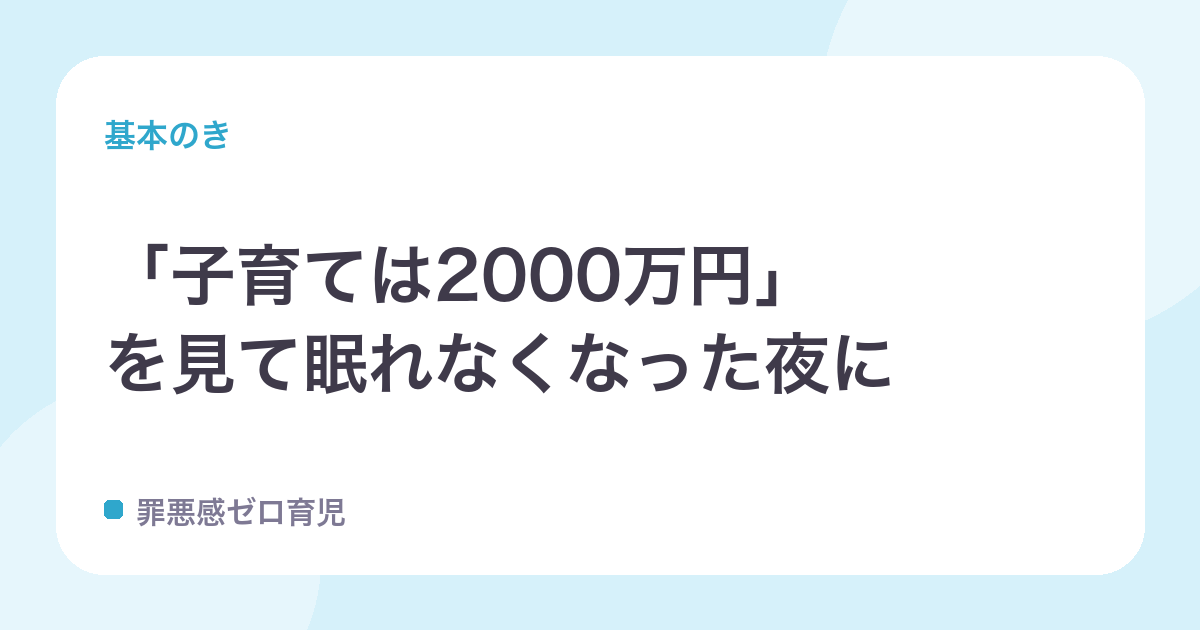
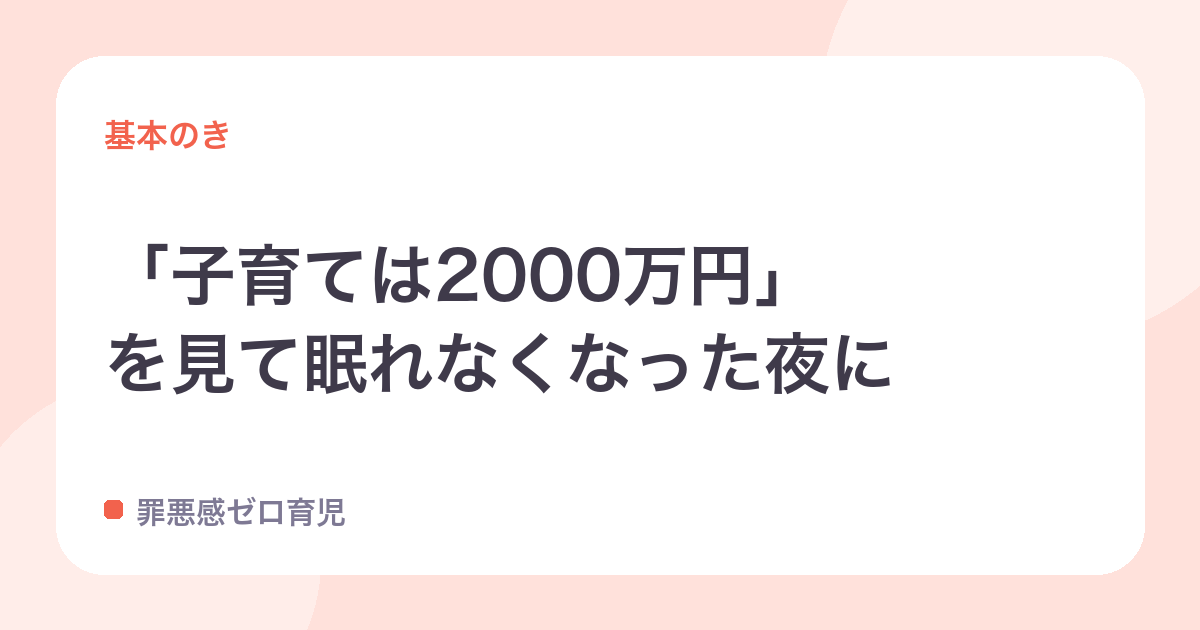
新カテゴリ「子どもとお金」追加：記事3本（1本はkurashiから移設）＋残り7トピックをキュー
- src/lib/site.ts / src/content/config.ts / scripts/gen/util.py / scripts/gen/topic.py に配線（accent: coral, emoji: 💰）
- kosodate-okane-nenreibetsu-mokuyasu を kurashi → okane に再分類、サムネをcoralで再生成
- 新規2本：お小遣いの学年別目安（金融広報中央委員会「知るぽると」）、学資保険は必須ではない（J-FLEC）
- 特定金融商品の断定的推奨はしない方針。残り7本はtopic-bank.ymlにqueuedで登録、自動パイプラインで段階的補充
- CLAUDE.md: 横軸カテゴリ表を12個に更新
- guardrails(banned/ymyl/governance)クリーン、build確認済み(114 pages)

Changed region(s): [[0.0, 0.0, 1.0, 1.0], [0.0925, 0.181, 0.185, 0.2413]]

diff --git a/src/lib/site.ts b/src/lib/site.ts
@@ -14,7 +14,8 @@ export type CategoryKey =
   | 'wanope'
   | 'hatsuiku'
   | 'kurashi'
-  | 'shinmama';
+  | 'shinmama'
+  | 'okane';
 export type ArticleTypeKey = 'trend' | 'basics' | 'service' | 'voice' | 'cheer';
 
 export type AccentKey = 'sun' | 'grape' | 'coral' | 'mint' | 'sky';
@@ -125,6 +126,15 @@ export const CATEGORIES: CategoryMeta[] = [
     accent: 'sun',
     description:
       '養育費、児童扶養手当、面会交流、「かわいそう」という視線。ひとりで抱えなくていい情報と、頼っていい窓口をまとめます。',
+  },
+  {
+    key: 'okane',
+    label: '子どもとお金',
+    short: '子どもとお金',
+    emoji: '💰',
+    accent: 'coral',
+    description:
+      '教育費、お小遣い、学資保険。「うちは大丈夫？」という漠然とした不安に、実際の数字と考え方で向き合います。',
   },
 ];
 

diff --git a/src/content/config.ts b/src/content/config.ts
@@ -25,6 +25,7 @@ const blog = defineCollection({
       'hatsuiku',
       'kurashi',
       'shinmama',
+      'okane',
     ]),
     /** 子どもの成長ステージ（src/lib/site.ts と一致・カテゴリと直交） */
     stage: z.enum(['ninshin', 'age0', 'age1_2', 'age3_pre', 'gakudo']),

diff --git a/scripts/gen/util.py b/scripts/gen/util.py
@@ -14,7 +14,7 @@ THUMBS = ROOT / "public" / "images" / "thumb"
 PROMPTS = SCRIPTS / "prompts"
 
 # src/lib/site.ts と一致させること
-CATEGORIES = ["sns", "gohan", "nenne", "kokoro", "sango", "kakawari", "saino", "wanope", "hatsuiku", "kurashi", "shinmama"]
+CATEGORIES = ["sns", "gohan", "nenne", "kokoro", "sango", "kakawari", "saino", "wanope", "hatsuiku", "kurashi", "shinmama", "okane"]
 STAGES = ["ninshin", "age0", "age1_2", "age3_pre", "gakudo"]
 ARTICLE_TYPES = ["trend", "basics", "service", "voice", "cheer"]
 ROTATION = ["trend", "basics", "service", "voice", "cheer"]
@@ -46,6 +46,7 @@ CATEGORY_ACCENT = {
     "hatsuiku": "mint",
     "kurashi": "sky",
     "shinmama": "sun",
+    "okane": "coral",
 }
 
 

diff --git a/scripts/gen/topic.py b/scripts/gen/topic.py
@@ -52,6 +52,7 @@ _DEFAULT_SOURCES = {
     "kurashi": ["https://www.caa.go.jp/policies/policy/consumer_safety/child/"],
     "sns": ["https://www.cfa.go.jp/"],
     "shinmama": ["https://www.cfa.go.jp/policies/hitori-oya", "https://support-hitorioya.cfa.go.jp/support/"],
+    "okane": ["https://www.j-flec.go.jp/", "https://www.shiruporuto.jp/"],
 }
 
 

diff --git a/src/content/blog/okozukai-itsukara-ikura-mokuyasu.md b/src/content/blog/okozukai-itsukara-ikura-mokuyasu.md
@@ -1,0 +1,45 @@
+---
+title: "お小遣い、いつから・いくらが目安か"
+description: "よそのお宅はいくら渡しているんだろう。「うちは多い？少ない？」と迷った時に知っておきたい、学年別の実際の目安と、金額よりも大事にしたい考え方をまとめました。"
+pubDate: 2026-11-03
+category: "okane"
+stage: "gakudo"
+articleType: "basics"
+tags: ["子どもとお金", "お小遣い", "小学生", "金融教育"]
+heroImage: "/images/thumb/okozukai-itsukara-ikura-mokuyasu.png"
+thumbHook: "うちのお小遣い、多い？少ない？"
+ogImage: "/images/thumb/okozukai-itsukara-ikura-mokuyasu.png"
+author: "管理人"
+sources:
+  - label: "金融広報中央委員会「知るぽると」（子どものくらしとお金に関する調査）"
+    url: "https://www.shiruporuto.jp/"
+  - label: "金融経済教育推進機構（J-FLEC）"
+    url: "https://www.j-flec.go.jp/"
+---
+
+ママ友の家では「もう1000円渡してる」と聞いて、うちはまだ何も決めていないことに焦ったり。逆に多く渡しすぎているんじゃないかと不安になったり。お小遣いの金額って、意外と正解が分からないまま決めているご家庭が多いはずです。
+
+## 学年別の目安（あくまで平均・幅がある数字です）
+
+> 📊 **お小遣いの平均額（金融広報中央委員会「知るぽると」の調査より）**
+> 月1回もらっている子どものお小遣い額は、小学校低学年で1,000円前後、中学年で900円前後、高学年で1,100〜1,600円程度、中学生で2,500円前後、高校生で5,000円前後という結果が出ています。また、お小遣いをもらっている子どもの割合は、小学生で7割程度、中学生・高校生で8割程度です。
+
+これらは平均であり、家庭によって大きな幅があります。「渡していない」家庭も一定数あり、渡していないからといって特別なことではありません。
+
+## 金額より大事にしたいこと
+
+- **金額そのものより、「何にお金を使うか」を子どもに決めさせる経験**の方が、金融教育としては重視されているとされています
+- お手伝いの対価にするか、定額制にするかは家庭の考え方次第で、どちらが正解ということはありません
+- 使い道への口出しを最小限にすることで、失敗も含めて「自分で選んで使う」経験が積めます
+
+## 決め方の現実的な視点
+
+- 周りの金額に合わせるのではなく、**「何をお小遣いの範囲で買わせるか」**（文房具・お菓子・友達との交際費など）を先に決めると、金額も決めやすくなります
+- 学年が上がるタイミングで見直す、というくらいの緩やかな運用で十分です
+- 使い切ってしまってねだられた時にどうするかを、渡し始める前に決めておくと後で迷いません
+
+## まとめ
+
+- お小遣いの平均額は学年が上がるにつれて増えていく傾向にありますが、家庭差が大きく「正解の金額」はありません
+- 金額そのものより、何にどう使うかを子どもに決めさせる経験の方が重視されています
+- 周りに合わせるより、「何を自分のお金で買わせるか」を先に決めてから金額を考えると迷いにくくなります

diff --git a/src/content/blog/gakushi-hoken-hitsuyou-ka.md b/src/content/blog/gakushi-hoken-hitsuyou-ka.md
@@ -1,0 +1,41 @@
+---
+title: "学資保険・こども名義の貯金、絶対に必要というわけではない話"
+description: "妊娠中や産後、周りが学資保険に入っていると聞いて焦っていませんか。特定の金融商品が全家庭に必須というわけではありません。何を基準に考えればいいかをまとめました。"
+pubDate: 2026-11-04
+category: "okane"
+stage: "ninshin"
+articleType: "basics"
+tags: ["子どもとお金", "学資保険", "教育費", "妊娠中"]
+heroImage: "/images/thumb/gakushi-hoken-hitsuyou-ka.png"
+thumbHook: "学資保険、うちも入った方がいいの？"
+ogImage: "/images/thumb/gakushi-hoken-hitsuyou-ka.png"
+author: "管理人"
+sources:
+  - label: "金融経済教育推進機構（J-FLEC）"
+    url: "https://www.j-flec.go.jp/"
+---
+
+妊娠中や産後すぐ、ママ友や親戚から「学資保険はもう入った？」と聞かれて、何も準備していない自分に焦ったことはありませんか。周りがみんなやっているように見えると、「うちも早く決めないと」という気持ちになりがちです。
+
+先に伝えておきたいのは、**学資保険やこども名義の口座は、すべての家庭に必須というものではない**ということです。
+
+> 📊 **家計管理・生活設計の考え方（金融経済教育推進機構 J-FLEC）**
+> J-FLECは、特定の金融機関や金融商品に偏らない中立的な立場から、家計管理や生活設計について個人の状況に応じた情報提供・相談を行う公的な機関として設立されています。「この商品に入っておけば安心」という画一的な正解を示す機関ではなく、家庭ごとの状況に応じて考えることを前提にしています。
+
+## 「入っていないと将来詰む」わけではない理由
+
+- 教育費の準備方法は、学資保険以外にも、通常の預貯金、児童手当をそのまま積み立てる、といった選択肢があります
+- 保険には「万一の際に以降の保険料が免除される」といった保障が付くタイプもありますが、その分だけ貯蓄性は下がる商品もあります。何を重視するかは家庭次第です
+- 今すぐ決められなくても、教育費が実際に必要になるのは数年〜十数年先です。焦って今すぐ決める必要はありません
+
+## 考える時に見ておきたい視点
+
+- **いつ・どのくらいの金額が必要になりそうか**を大まかに逆算してみる（進路によって金額は大きく変わるため、幅を持たせて考える）
+- 無理な保険料設定にして、日々の生活が苦しくなるのは本末転倒です。まずは無理のない金額で続けられる方法を選ぶ
+- 迷ったら、特定の商品を勧めない中立的な相談窓口（J-FLECの認定アドバイザーによる無料相談など）を使うという選択肢もあります
+
+## まとめ
+
+- 学資保険もこども名義の貯金も、すべての家庭に必須というものではありません
+- 教育費の準備方法は複数あり、何を重視するかは家庭ごとに違って当然です
+- 焦って今すぐ決めなくても、必要になるまでには数年の猶予があります。無理のない範囲で、中立的な情報を参考にしながら考えれば十分です

diff --git a/CLAUDE.md b/CLAUDE.md
@@ -251,9 +251,9 @@ pick_topic → research → draft → concept_rewrite → thumbnail → publish 
   ※ 2026-09 の「Ver 3.0」案（横軸を5テーマに統一 / 縦軸4段階）は不採用。横軸=話題別・縦軸=5段階を維持。
 - ステージ：`/stages`（一覧）、`/stages/[key]`。`StageNav` をトップ/記事一覧/ステージ各ページに。
 
-### 横軸カテゴリ（11）
+### 横軸カテゴリ（12）
 
-`sns`（SNSバズ・深掘り / sky）｜`gohan`（ごはん・離乳食 / sun）｜`nenne`（ねんね・生活リズム / grape）｜`kokoro`（心のケア / coral）｜`sango`（産後うつ・こころの不調 / grape）｜`kakawari`（関わり方 / grape・叱り方ほめ方＋"目を背けたくなる話"担当）｜`saino`（才能と教育のホント / mint・成功神話の反証。生存者バイアス／早期教育の煽り／比べない、を実在の個人名を出さず研究ベースで扱う）｜`wanope`（ワンオペ育児 / sky）｜`hatsuiku`（発育・健康 / mint）｜`kurashi`（暮らし・便利グッズ / sky）｜`shinmama`（シンママ / sun・養育費・児童扶養手当・面会交流・偏見への対処。法律/制度がらみは法テラス等の公的窓口への接続を必須にする）
+`sns`（SNSバズ・深掘り / sky）｜`gohan`（ごはん・離乳食 / sun）｜`nenne`（ねんね・生活リズム / grape）｜`kokoro`（心のケア / coral）｜`sango`（産後うつ・こころの不調 / grape）｜`kakawari`（関わり方 / grape・叱り方ほめ方＋"目を背けたくなる話"担当）｜`saino`（才能と教育のホント / mint・成功神話の反証。生存者バイアス／早期教育の煽り／比べない、を実在の個人名を出さず研究ベースで扱う）｜`wanope`（ワンオペ育児 / sky）｜`hatsuiku`（発育・健康 / mint）｜`kurashi`（暮らし・便利グッズ / sky）｜`shinmama`（シンママ / sun・養育費・児童扶養手当・面会交流・偏見への対処。法律/制度がらみは法テラス等の公的窓口への接続を必須にする）｜`okane`（子どもとお金 / coral・教育費、お小遣い、学資保険。特定の金融商品を断定的に推奨しない、金額は必ず出典付きの調査データを引用する）
 
 - `sns` は SNS で話題の悩み・投稿を事実で深掘りするカテゴリ。記事は基本 `articleType: trend`。
   実在の投稿は丸写しせず要約・一般化。`snsRefs`（frontmatter）で X / Instagram / TikTok のハッシュタグ検索ページへリンクし、記事末に「元になったSNSの話題」ボックスを表示。

diff --git a/src/content/blog/kosodate-okane-nenreibetsu-mokuyasu.md b/src/content/blog/kosodate-okane-nenreibetsu-mokuyasu.md
@@ -2,7 +2,7 @@
 title: "子育てにかかるお金、年齢別の目安まとめ（総額2000万円超の中身）"
 description: "「子育ては2000万円かかる」という見出しを見て不安になる前に。国の調査をもとに、実際どの時期に何の費用がかかるのかを年齢別に整理しました。一度に必要な金額ではありません。"
 pubDate: 2026-10-30
-category: "kurashi"
+category: "okane"
 stage: "gakudo"
 articleType: "basics"
 tags: ["教育費", "育児費用", "年齢別", "お金"]
